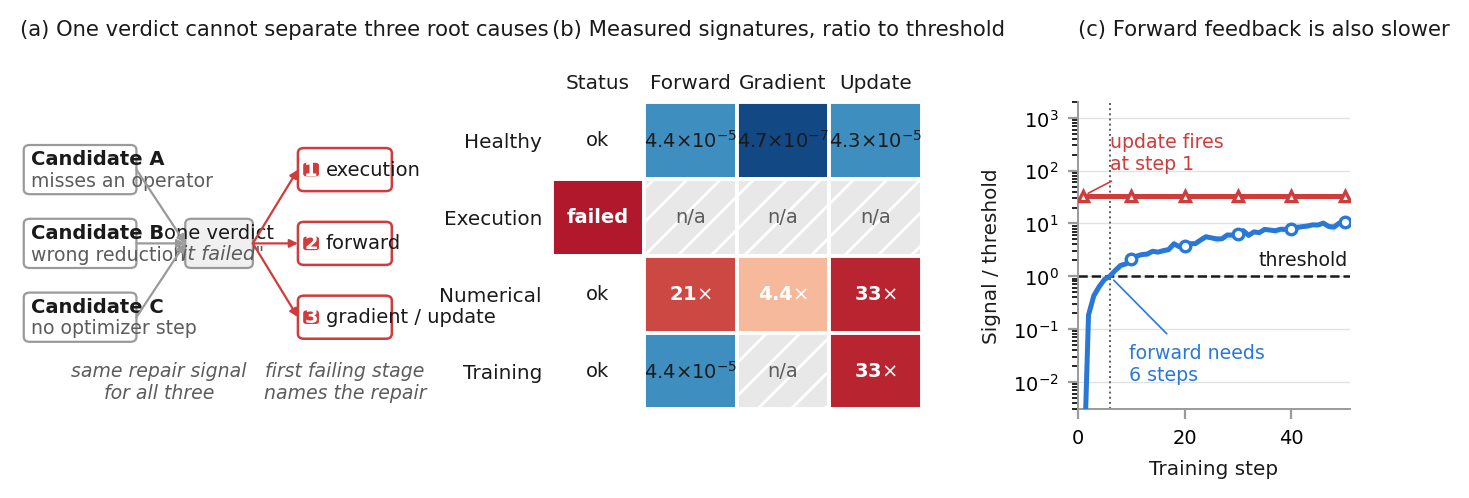
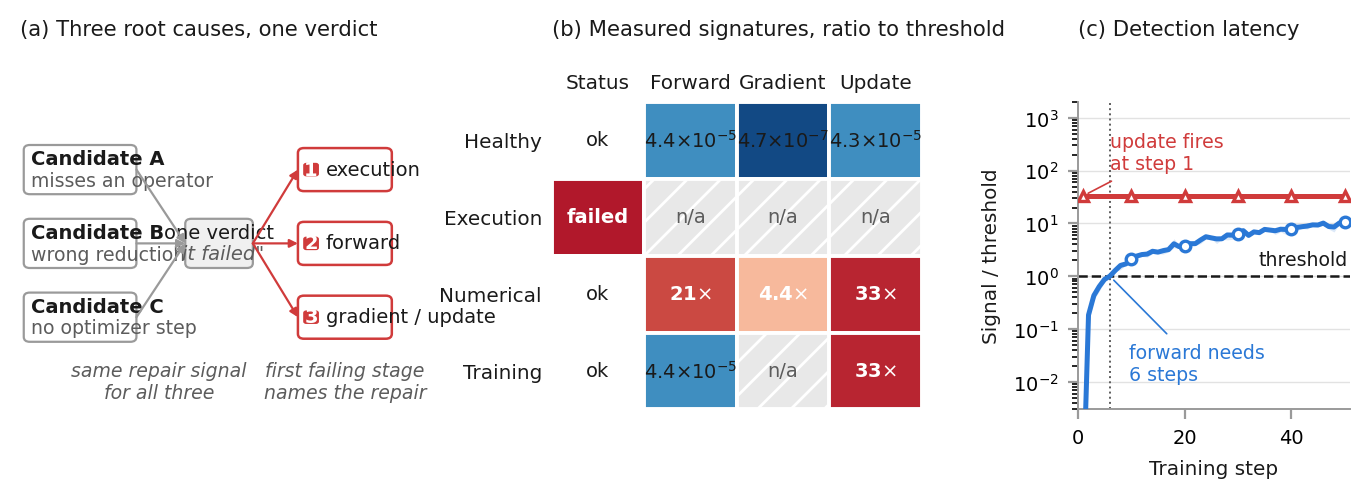
Shorten Figure 1 panel titles to clear a measured overlap
Widening panel (b) in the previous commit pulled its title left until it
overlapped panel (a)'s by 0.007in, and panel (c)'s title ran 0.348in past
the 7in canvas. bbox_inches="tight" hid the overrun by expanding the
canvas, so neither showed up as a LaTeX warning.

Measured the rendered title widths rather than eyeballing them, and
shortened two: (a) to 'Three root causes, one verdict' and (c) to
'Detection latency'. Gaps are now +0.861in and +0.351in with (c) 0.348in
inside the edge. The caption already carries the full reading of each
panel.

diff --git a/figures/make_verdict_collapse.py b/figures/make_verdict_collapse.py
@@ -311,11 +311,14 @@ fig.subplots_adjust(left=0.035, right=0.985, top=0.78, bottom=0.165)
 
 # Titles are placed at figure level, on one shared baseline. Per-axes titles put
 # panel (b)'s far above the other two, because its x-axis sits on top.
+# Titles are kept short enough that (a) and (b) do not touch and (c) does not
+# overrun the 7in canvas; measured, not eyeballed. The caption carries the full
+# reading of each panel.
 TITLE_Y = 0.925
 for ax, text in [
-        (ax_a, "(a) One verdict cannot separate three root causes"),
+        (ax_a, "(a) Three root causes, one verdict"),
         (ax_b, "(b) Measured signatures, ratio to threshold"),
-        (ax_c, "(c) Forward feedback is also slower")]:
+        (ax_c, "(c) Detection latency")]:
     fig.text(ax.get_position().x0, TITLE_Y, text, fontsize=7.6, color=INK,
              ha="left", va="center")
 fig.savefig("figures/verdict_collapse.pdf", bbox_inches="tight")
